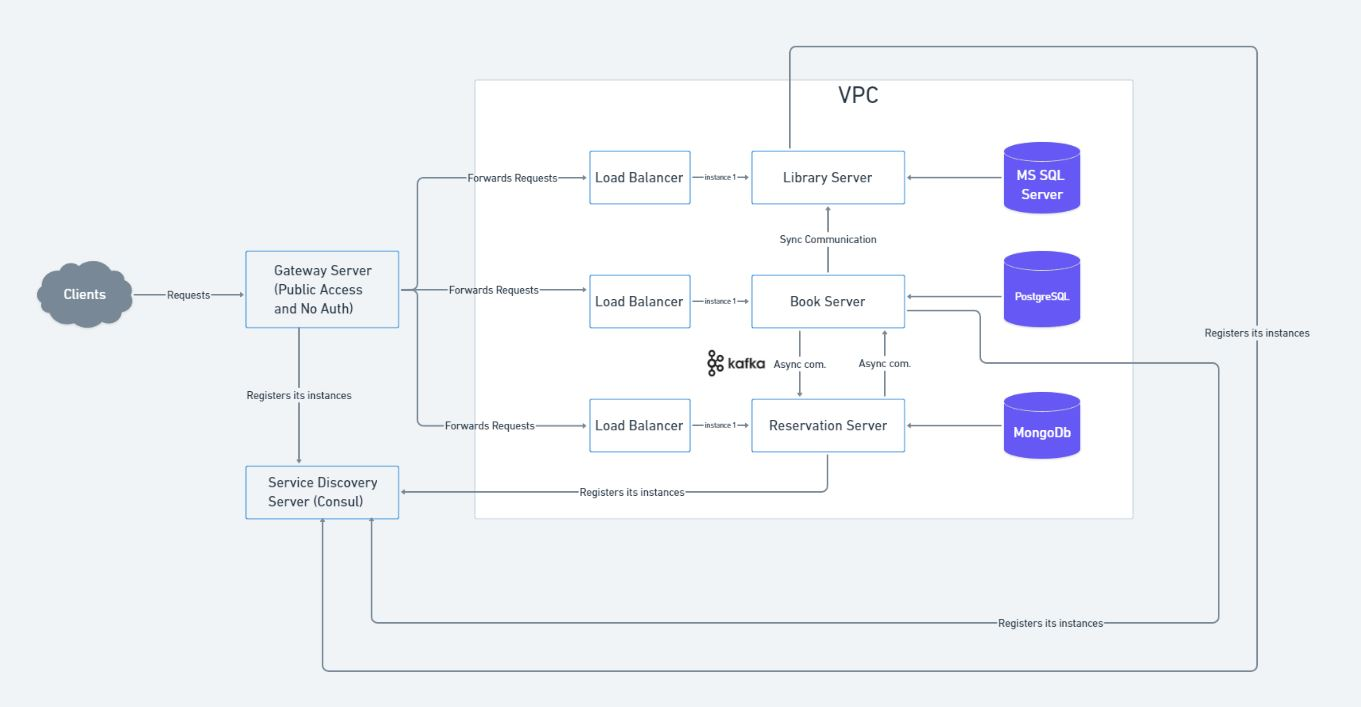
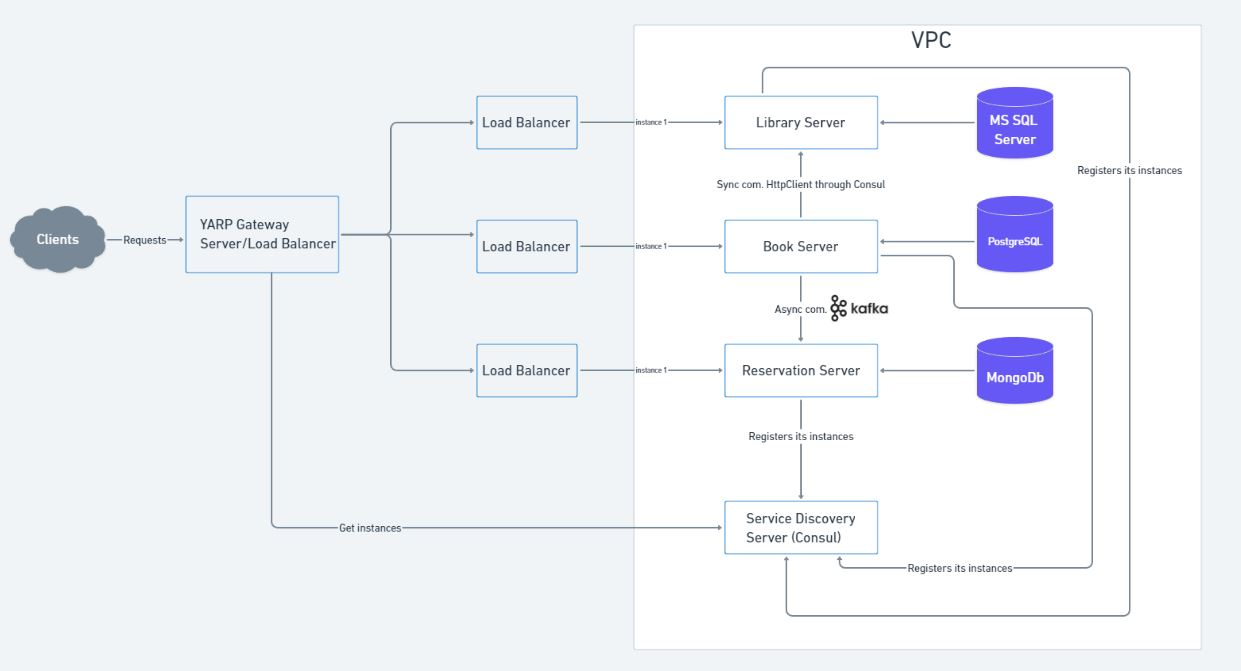
Refactored HttpClient in the Books_API service and added Consul Service Discovery to all the services

diff --git a/Books_API/Services/BookService.cs b/Books_API/Services/BookService.cs
@@ -1,9 +1,9 @@
 using Books_API.Dto;
 using Books_API.Exceptions;
+using Books_API.Infra;
 using Books_API.Model;
 using Books_API.Repository;
 using MongoDB.Bson;
-using System.Text.Json;
 
 namespace Books_API.Services
 {
@@ -12,11 +12,13 @@ namespace Books_API.Services
         private const string LIBRARY_SERVICE_BASE_URL = "http://localhost:5199/api/v1/libraries";
         private readonly IBookRepository _bookRepository;
         private readonly ILogger _logger;
+        private readonly Client _client;
 
-        public BookService(IBookRepository bookRepository, ILogger<BookService> logger)
+        public BookService(IBookRepository bookRepository, ILogger<BookService> logger, Client client)
         {
             _bookRepository = bookRepository;
             _logger = logger;
+            _client = client;
         }
 
         public async Task<BookDataModel> CreateBookService(string title, string libraryId)
@@ -58,25 +60,15 @@ namespace Books_API.Services
 
         private async Task ValidateLibraryIdExists(string libraryId)
         {
-            using (HttpClient client = new HttpClient())
+            LibrariesResponse? library = await _client.GetAsync(libraryId);
+
+            if (library == null)
             {
-                HttpResponseMessage res = await client.GetAsync($"{LIBRARY_SERVICE_BASE_URL}/{libraryId}");
-
-                if (!res.IsSuccessStatusCode)
-                {
-                    var statusCode = res.StatusCode;
-                    _logger.LogError("Error: {statusCode}", statusCode);
-                    throw new EntityNotFoundException("Library not found");
-                }
-
-                string resBody = await res.Content.ReadAsStringAsync();
-
-                LibrariesResponse? library = JsonSerializer.Deserialize<LibrariesResponse>(resBody);
-
-                if (library == null) throw new SerializerException("Problem Deserializing class");
-
-                _logger.LogInformation(message: "Library data was found an is avaliable: " + "id:" + library.Id + " name:" + library.Name);
+                _logger.LogError("Library not found");
+                throw new EntityNotFoundException("Library not found");
             }
+
+            _logger.LogInformation(message: "Library data was found an is avaliable: " + "id:" + library.Id + " name:" + library.Name);
         }
 
     }

diff --git a/Books_API/Program.cs b/Books_API/Program.cs
@@ -1,7 +1,11 @@
+using Books_API.Infra;
 using Books_API.Persistence;
 using Books_API.Repository;
 using Books_API.Services;
 using Microsoft.EntityFrameworkCore;
+using Steeltoe.Common.Http.Discovery;
+using Steeltoe.Discovery.Client;
+using Steeltoe.Discovery.Consul;
 
 var builder = WebApplication.CreateBuilder(args);
 
@@ -11,6 +15,12 @@ builder.Services.AddControllers();
 // Learn more about configuring Swagger/OpenAPI at https://aka.ms/aspnetcore/swashbuckle
 builder.Services.AddEndpointsApiExplorer();
 builder.Services.AddSwaggerGen();
+
+builder.Services.AddServiceDiscovery(o => o.UseConsul());
+
+builder.Services.AddHttpClient<Client>(client => client.BaseAddress = new Uri("http://library-service"))
+    .AddServiceDiscovery()
+    .AddRoundRobinLoadBalancer();
 
 builder.Services.AddScoped<IBookRepository, BookRepositoryImpl>();
 builder.Services.AddScoped<BookService>();

diff --git a/Books_API/Infra/Client.cs b/Books_API/Infra/Client.cs
@@ -1,0 +1,19 @@
+using Books_API.Dto;
+using Confluent.Kafka;
+
+namespace Books_API.Infra
+{
+    public sealed class Client(HttpClient httpClient)
+    {
+        private const string LIBRARY_SERVICE_BASE_URL = "http://localhost:5199/api/v1/libraries";
+        // uncomment after containerizing the whole app
+        //private const string LIBRARY_SERVICE_BASE_URL = "http://library-service";
+
+        public async Task<LibrariesResponse?> GetAsync(string libraryId)
+        {
+            var res = await httpClient.GetFromJsonAsync<LibrariesResponse>($"{LIBRARY_SERVICE_BASE_URL}/{libraryId}");
+
+            return res;
+        }
+    }
+}

diff --git a/Reservation_API/Program.cs b/Reservation_API/Program.cs
@@ -1,6 +1,8 @@
 using Microsoft.EntityFrameworkCore;
 using Reservation_API.Repository;
 using Reservation_API.Services;
+using Steeltoe.Discovery.Client;
+using Steeltoe.Discovery.Consul;
 
 var builder = WebApplication.CreateBuilder(args);
 
@@ -17,6 +19,8 @@ builder.Services.AddScoped<IReservationRepository, ReservationRepositoryImpl>();
 builder.Services.AddScoped<GetReservationsService>();
 
 builder.Services.AddHostedService<CreateReservationService>();
+
+builder.Services.AddServiceDiscovery(o => o.UseConsul());
 
 var app = builder.Build();
 

diff --git a/Library_Rest_API/Program.cs b/Library_Rest_API/Program.cs
@@ -5,6 +5,8 @@ using Library_Rest_API.Persistence;
 using Library_Rest_API.Persistence.Repository;
 using Library_Rest_API.Services;
 using Microsoft.EntityFrameworkCore;
+using Steeltoe.Discovery.Client;
+using Steeltoe.Discovery.Consul;
 
 var builder = WebApplication.CreateBuilder(args);
 
@@ -27,6 +29,8 @@ builder.Services.AddDbContext<LibraryDbContext>(options =>
 {
     options.UseSqlServer(builder.Configuration.GetConnectionString("LibraryDb"));
 });
+
+builder.Services.AddServiceDiscovery(o => o.UseConsul());
 
 var app = builder.Build();
 

diff --git a/README.md b/README.md
@@ -1,29 +1,53 @@
 # Project Scope Description
+
 ASP.NET Core Learning project in monolithic architecture using:
+
 1. Domain Driven Design
 2. Clean Architecture
 3. Repository Pattern
 4. EntityFrameworkCore
 5. MS SQL Server Database implementation with migrations
 6. PostgreSQL Database implementation with migrations
-7. Swagger
-8. Docker
-9. Ms Test
+7. MongoDb Database
+8. Swagger
+9. Docker
+10. Ms Test
+11. xUnit
+12. Kafka
+13. Consul
+14. HttpClient (Books_API)
 
 # NuGet Packages used:
+
 1. Microsoft.EntityFrameworkCore
 2. Microsoft.EntityFrameworkCore.Design
 3. Microsoft.EntityFrameworkCore.Tools
 4. Microsoft.EntityFrameworkCore.SQLServer
 5. Npgsql.EntityFrameworkCore.PostgreSQL
+6. MongoDB.EntityFrameworkCore
+7. Confluent.Kafka
+8. Steeltoe.Discovery.Consul
+9. Swashbuckle.AspNetCore (Swagger)
 
 # To run migrations at Package Manager Console:
+
 ```
 Add-Migration <migration_name>
 Update-Database
 ```
 
 # To Start the Docker Container with Kafka
+
 ```
 docker run -d --name broker -p 9092:9092 apache/kafka:latest
 ```
+
+# To Start the Consul Container\*
+
+```
+docker run --name consul -d -p 8500:8500 hashicorp/consul:latest
+```
+
+\*The services will register themselves to Consul on that Docker instance but since for the moment the services are running locally, routing will not work. Solution is to create a Docker-Compose file and run all services in the same network.
+
+# To be done: docker-compose file to containerize all the services
